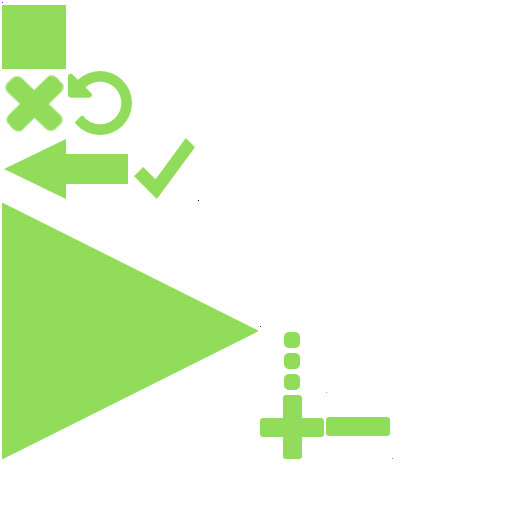
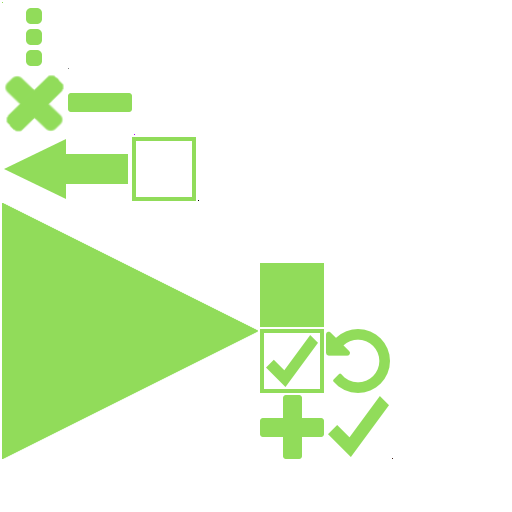
Added SettingsScreen and SettingsFile with working toggles.

Changed region(s): [[0.5, 0.5, 0.7812, 0.9062], [0.0, 0.0, 0.25, 0.2812], [0.25, 0.25, 0.4062, 0.4062]]

diff --git a/core/src/com/mare5x/chargehockey/SettingsScreen.java b/core/src/com/mare5x/chargehockey/SettingsScreen.java
@@ -1,0 +1,129 @@
+package com.mare5x.chargehockey;
+
+import com.badlogic.gdx.Gdx;
+import com.badlogic.gdx.Screen;
+import com.badlogic.gdx.graphics.GL20;
+import com.badlogic.gdx.scenes.scene2d.InputEvent;
+import com.badlogic.gdx.scenes.scene2d.Stage;
+import com.badlogic.gdx.scenes.scene2d.ui.Button;
+import com.badlogic.gdx.scenes.scene2d.ui.Table;
+import com.badlogic.gdx.scenes.scene2d.ui.TextButton;
+import com.badlogic.gdx.scenes.scene2d.ui.Value;
+import com.badlogic.gdx.scenes.scene2d.utils.ClickListener;
+import com.badlogic.gdx.utils.viewport.StretchViewport;
+
+
+class SettingsScreen implements Screen {
+    private final Stage stage;
+    private final SettingsFile settings_file;
+
+    SettingsScreen(final ChargeHockeyGame game, final Screen parent_screen) {
+        settings_file = new SettingsFile();
+
+        stage = new Stage(new StretchViewport(Gdx.graphics.getWidth(), Gdx.graphics.getHeight()), game.batch);
+        stage.setDebugAll(true);
+
+        Button back_button = new Button(game.skin, "back");
+        back_button.pad(10);
+        back_button.addListener(new ClickListener() {
+            @Override
+            public void clicked(InputEvent event, float x, float y) {
+                game.setScreen(parent_screen);
+            }
+        });
+
+        final Button velocity_checkbox = new Button(game.skin, "checkbox");
+        velocity_checkbox.setChecked(settings_file.get(SETTINGS_KEY.SHOW_VELOCITY_VECTOR));
+        velocity_checkbox.pad(10);
+        velocity_checkbox.addListener(new ClickListener() {
+            @Override
+            public void clicked(InputEvent event, float x, float y) {
+                settings_file.put(SETTINGS_KEY.SHOW_VELOCITY_VECTOR, velocity_checkbox.isChecked());
+            }
+        });
+        final TextButton velocity_vector_text = new TextButton("SHOW VELOCITY VECTOR", game.skin);
+        velocity_vector_text.pad(10);
+        velocity_vector_text.addListener(new ClickListener() {
+            @Override
+            public void clicked(InputEvent event, float x, float y) {
+                velocity_checkbox.toggle();
+                settings_file.put(SETTINGS_KEY.SHOW_VELOCITY_VECTOR, velocity_checkbox.isChecked());
+            }
+        });
+
+        final Button acceleration_checkbox = new Button(game.skin, "checkbox");
+        acceleration_checkbox.setChecked(settings_file.get(SETTINGS_KEY.SHOW_ACCELERATION_VECTOR));
+        acceleration_checkbox.pad(10);
+        acceleration_checkbox.addListener(new ClickListener() {
+            @Override
+            public void clicked(InputEvent event, float x, float y) {
+                settings_file.put(SETTINGS_KEY.SHOW_ACCELERATION_VECTOR, acceleration_checkbox.isChecked());
+            }
+        });
+        final TextButton acceleration_vector_text = new TextButton("SHOW ACCELERATION VECTOR", game.skin);
+        acceleration_vector_text.pad(10);
+        acceleration_vector_text.addListener(new ClickListener() {
+            @Override
+            public void clicked(InputEvent event, float x, float y) {
+                acceleration_checkbox.toggle();
+                settings_file.put(SETTINGS_KEY.SHOW_ACCELERATION_VECTOR, acceleration_checkbox.isChecked());
+            }
+        });
+
+        velocity_vector_text.getLabel().setWrap(true);
+        acceleration_vector_text.getLabel().setWrap(true);
+
+        Table table = new Table();
+        table.setFillParent(true);
+
+        table.add(back_button).pad(15).size(Value.percentWidth(0.3f, table), Value.percentWidth(0.15f, table)).left().row();
+        table.add().expand().colspan(2).row();
+        table.add(velocity_vector_text).pad(15).width(Value.percentWidth(0.6f, table)).fillX().uniform();
+        table.add(velocity_checkbox).pad(15).size(Value.percentWidth(0.125f, table)).right().row();
+        table.add(acceleration_vector_text).pad(15).width(Value.percentWidth(0.6f, table)).fillX().uniform();
+        table.add(acceleration_checkbox).pad(15).size(Value.percentWidth(0.125f, table)).right().row();
+        table.add().colspan(2).expand();
+
+        stage.addActor(table);
+    }
+
+    @Override
+    public void show() {
+        Gdx.input.setInputProcessor(stage);
+    }
+
+    @Override
+    public void render(float delta) {
+        Gdx.gl20.glClearColor(0, 0, 0, 1);
+        Gdx.gl20.glClear(GL20.GL_COLOR_BUFFER_BIT);
+
+        stage.act();
+        stage.draw();
+    }
+
+    @Override
+    public void resize(int width, int height) {
+        stage.getViewport().update(width, height, false);
+    }
+
+    @Override
+    public void pause() {
+        settings_file.save();
+    }
+
+    @Override
+    public void resume() {
+
+    }
+
+    @Override
+    public void hide() {
+        settings_file.save();
+        dispose();
+    }
+
+    @Override
+    public void dispose() {
+        stage.dispose();
+    }
+}

diff --git a/core/src/com/mare5x/chargehockey/SettingsFile.java b/core/src/com/mare5x/chargehockey/SettingsFile.java
@@ -1,0 +1,44 @@
+package com.mare5x.chargehockey;
+
+
+import com.badlogic.gdx.Gdx;
+import com.badlogic.gdx.Preferences;
+
+
+enum SETTINGS_KEY {
+    SHOW_VELOCITY_VECTOR, SHOW_ACCELERATION_VECTOR
+}
+
+
+class SettingsFile {
+    private static final String FILE_NAME = "mare5x.chargehockey.settings";
+
+    private final Preferences prefs;
+
+    SettingsFile() {
+        prefs = Gdx.app.getPreferences(FILE_NAME);
+    }
+
+    // Initialize the preferences file with the default key, value pairs.
+    // NOTE: if the keys already exist, does nothing!
+    static void initialize() {
+        Preferences prefs = Gdx.app.getPreferences(FILE_NAME);
+        if (prefs.contains(SETTINGS_KEY.values()[0].name()))
+            return;
+        prefs.putBoolean(SETTINGS_KEY.SHOW_VELOCITY_VECTOR.name(), false);
+        prefs.putBoolean(SETTINGS_KEY.SHOW_ACCELERATION_VECTOR.name(), false);
+        prefs.flush();
+    }
+
+    boolean get(SETTINGS_KEY key) {
+        return prefs.getBoolean(key.name(), false);
+    }
+
+    void put(SETTINGS_KEY key, boolean val) {
+        prefs.putBoolean(key.name(), val);
+    }
+
+    void save() {
+        prefs.flush();
+    }
+}

diff --git a/core/src/com/mare5x/chargehockey/GameMenuScreen.java b/core/src/com/mare5x/chargehockey/GameMenuScreen.java
@@ -13,15 +13,9 @@ import com.badlogic.gdx.utils.viewport.StretchViewport;
 
 
 class GameMenuScreen implements Screen {
-    private final ChargeHockeyGame game;
-    private final Screen parent_screen;
-
     private final Stage stage;
 
     GameMenuScreen(final ChargeHockeyGame game, final Screen parent_screen) {
-        this.game = game;
-        this.parent_screen = parent_screen;
-
         stage = new Stage(new StretchViewport(Gdx.graphics.getWidth(), Gdx.graphics.getHeight()), game.batch);
         stage.setDebugAll(true);
 
@@ -65,6 +59,8 @@ class GameMenuScreen implements Screen {
             @Override
             public void clicked(InputEvent event, float x, float y) {
                 Gdx.app.log("settings_button", "clicked");
+
+                game.setScreen(new SettingsScreen(game, parent_screen));
             }
         });
 

diff --git a/core/src/com/mare5x/chargehockey/ChargeHockeyGame.java b/core/src/com/mare5x/chargehockey/ChargeHockeyGame.java
@@ -32,9 +32,6 @@ public class ChargeHockeyGame extends Game {
     private AssetManager manager;
 
     Screen menu_screen;
-//    final protected Screen level_screen;
-//    final protected Screen editor_screen;
-//    final protected Screen game_screen;
 
 	@Override
 	public void create () {
@@ -73,6 +70,8 @@ public class ChargeHockeyGame extends Game {
         skin = manager.get("skin.json", Skin.class);
 
         sprites = manager.get("sprites.atlas", TextureAtlas.class);
+
+        SettingsFile.initialize();
 
         menu_screen = new MenuScreen(this);
         setScreen(menu_screen);

diff --git a/core/src/com/mare5x/chargehockey/GameScreen.java b/core/src/com/mare5x/chargehockey/GameScreen.java
@@ -124,6 +124,15 @@ class GameScreen implements Screen {
     @Override
     public void show() {
         Gdx.input.setInputProcessor(multiplexer);
+
+        load_settings();
+    }
+
+    private void load_settings() {
+        SettingsFile settings = new SettingsFile();
+
+        PuckActor.set_draw_velocity(settings.get(SETTINGS_KEY.SHOW_VELOCITY_VECTOR));
+        PuckActor.set_draw_acceleration(settings.get(SETTINGS_KEY.SHOW_ACCELERATION_VECTOR));
     }
 
     @Override

diff --git a/core/src/com/mare5x/chargehockey/GameLogic.java b/core/src/com/mare5x/chargehockey/GameLogic.java
@@ -54,10 +54,6 @@ class GameLogic {
         }
 
         load_charge_state();
-
-        // temp TODO make this an option in the settings menu
-        PuckActor.set_draw_acceleration(true);
-        PuckActor.set_draw_velocity(true);
     }
 
     // Add a charge of type charge_type to the center of the camera position.

diff --git a/core/src/com/mare5x/chargehockey/MenuScreen.java b/core/src/com/mare5x/chargehockey/MenuScreen.java
@@ -52,6 +52,7 @@ class MenuScreen implements Screen {
             @Override
             public void clicked(InputEvent event, float x, float y) {
                 Gdx.app.log("settings_button", "clicked");
+                game.setScreen(new SettingsScreen(game, MenuScreen.this));
             }
         });
 
